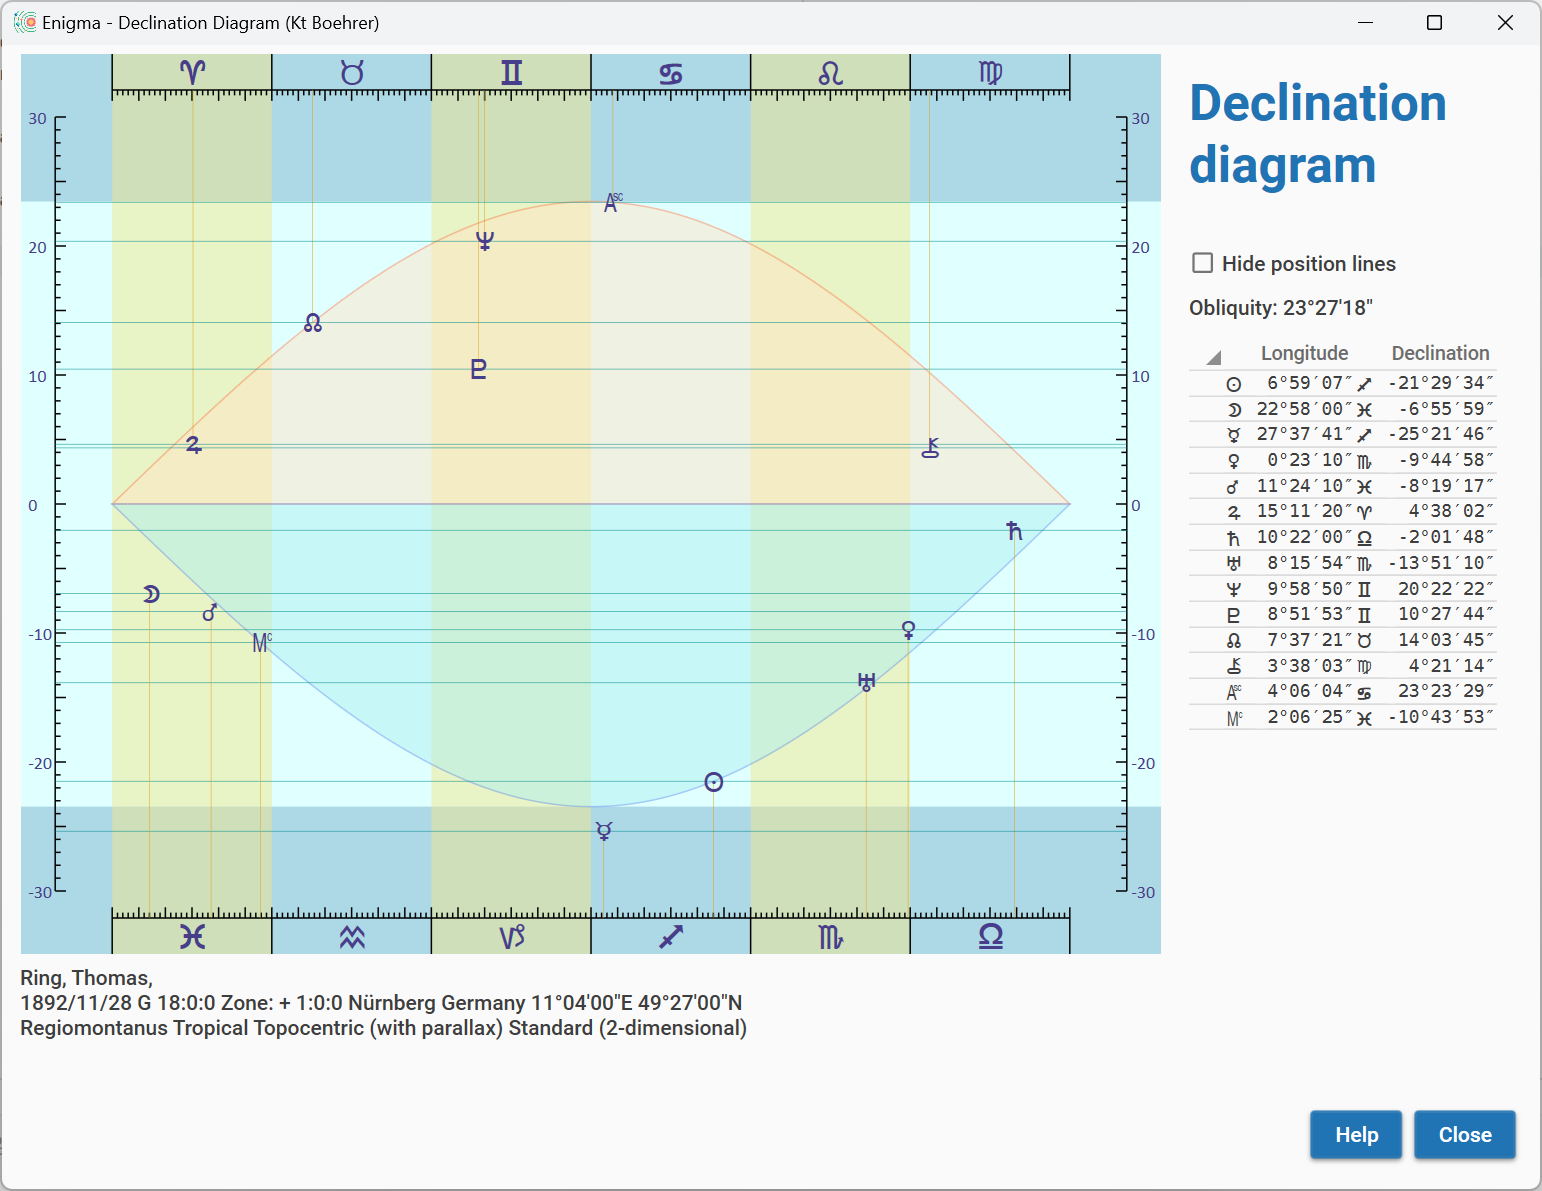
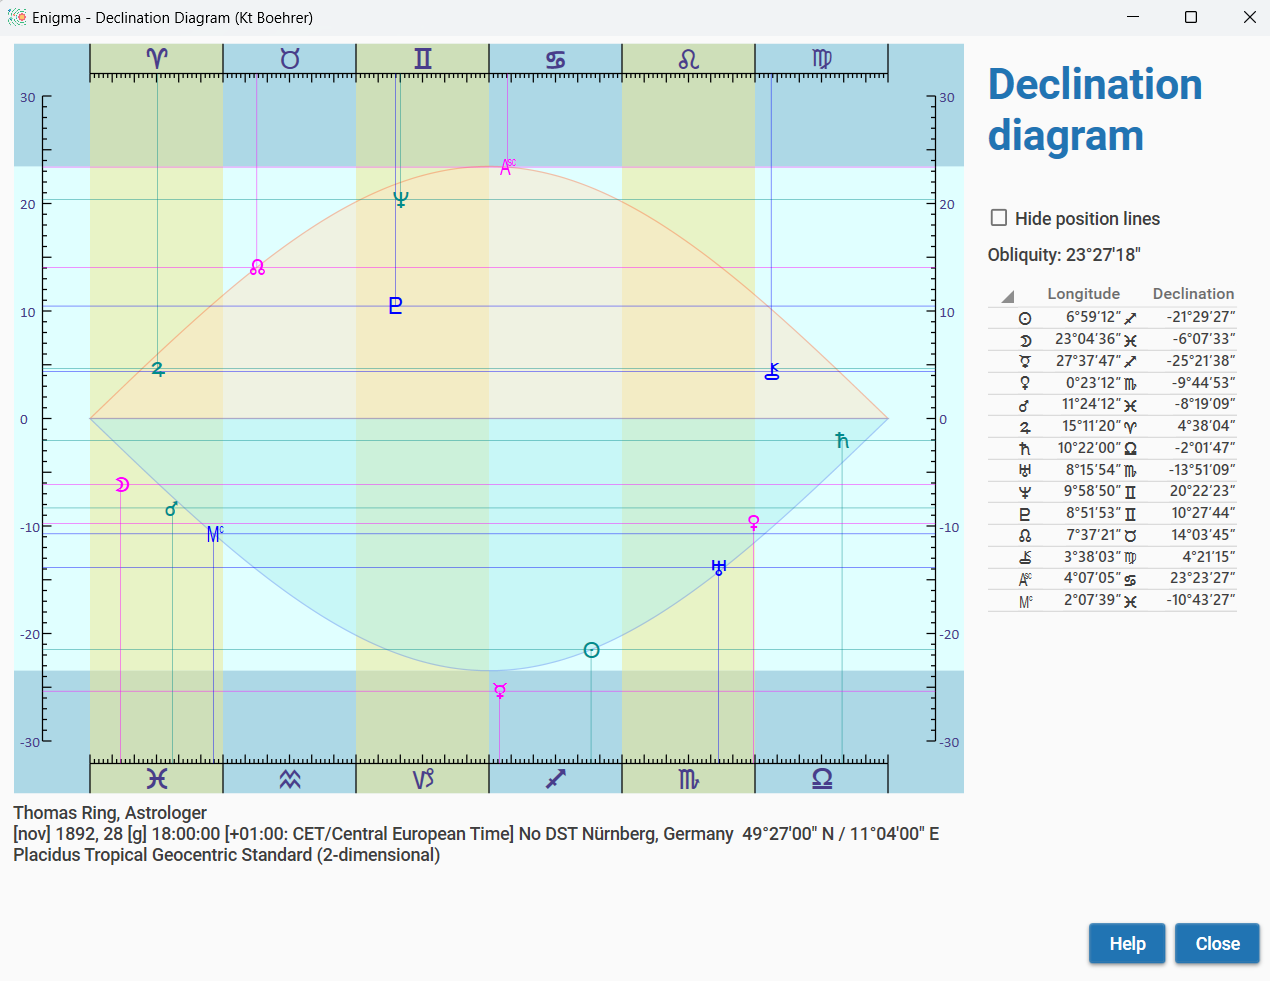
Updated parts of the user manual. Fixed directions for southern latitudes.

diff --git a/Enigma/Enigma.Frontend/res/help/DeclDiagram-en.html b/Enigma/Enigma.Frontend/res/help/DeclDiagram-en.html
@@ -22,6 +22,7 @@
     The diagram shows 6 columns, each for a pair of ecliptical signs. 
     For each point you will see a horizontal line that indicates the exact declination.
     A vertical line, directed to the top or the bottom of the diagram, indicates the longitude.
+    The colors of the line correspond with the colors of the glyphs for the planets.
 </p>
 <p>
     You can hide the position lines by clicking the checkbox <i>Hide position lines</i>.

diff --git a/Enigma/Enigma.Core/Charts/Prog/PrimDir/PrimDirCalcAssist.cs b/Enigma/Enigma.Core/Charts/Prog/PrimDir/PrimDirCalcAssist.cs
@@ -58,18 +58,34 @@ public static class PrimDirCalcAssist
     /// <param name="oaPoint">Oblique ascension for the point.</param>
     /// <param name="oaAsc">Oblique ascension for the ascendant.</param>
     /// <param name="chartLeft">True if point is in the left demi-circle of the chart, otherwise false.</param>
+    /// <param name="north">True for northern latitude.</param>
     /// <returns>Calculated value for horizontal distance.</returns>
-    public static double HorizontalDistance(double oaPoint, double oaAsc, bool chartLeft)
+    public static double HorizontalDistance(double oaPoint, double oaAsc, bool chartLeft, bool north)
     {
         double hd = 0.0;
-        if (chartLeft)
+        if (north)
         {
-            hd = Math.Abs(oaPoint - oaAsc);
+            if (chartLeft)
+            {
+                hd = Math.Abs(oaPoint - oaAsc);
+            }
+            else
+            {
+                hd = Math.Abs(RangeUtil.ValueToRange(oaPoint + 180.0, 0.0, 180.0) 
+                              - RangeUtil.ValueToRange(oaAsc + 180.0, 0.0, 180.0));            
+            }            
         }
         else
         {
-            hd = Math.Abs(RangeUtil.ValueToRange(oaPoint + 180.0, 0.0, 180.0) 
-                            - RangeUtil.ValueToRange(oaAsc + 180.0, 0.0, 180.0));            
+            if (!chartLeft)
+            {
+                hd = Math.Abs(oaPoint - oaAsc);
+            }
+            else
+            {
+                hd = Math.Abs(RangeUtil.ValueToRange(oaPoint + 180.0, 0.0, 180.0) 
+                              - RangeUtil.ValueToRange(oaAsc + 180.0, 0.0, 180.0));            
+            } 
         }
         if (hd >= 180.0) hd = 360.0 - hd;
         if (hd >= 90.0) hd = 180.0 - hd;
@@ -92,18 +108,25 @@ public static class PrimDirCalcAssist
     /// <param name="raPoint">Right ascention of point.</param>
     /// <param name="ascDiff">Ascension difference of point.</param>
     /// <param name="chartLeft">Indicates if point is in the left part of the chart.</param>
-    /// <param name="north">Indficates if point is in northern hemisphere.</param>
+    /// <param name="north">Indicates if point is in northern hemisphere.</param>
     /// <returns>Calculated oblique ascension.</returns>
     public static double ObliqueAscDesc(double raPoint, double ascDiff, bool chartLeft, bool north)
     {
-        if ((north && chartLeft) || (!north && !chartLeft))
+        double oa = 0.0;
+        if (north)
         {
-            return RangeUtil.ValueToRange(raPoint - ascDiff, 0.0, 360.0);
-        } 
-        return RangeUtil.ValueToRange(raPoint + ascDiff, 0.0, 360.0);
-        
+            if (chartLeft) oa = raPoint - ascDiff;
+            else  oa = raPoint + ascDiff;           
+        }
+        else
+        {
+            if (chartLeft) oa = raPoint + ascDiff;
+            else oa = raPoint - ascDiff;            
+        }
+        return RangeUtil.ValueToRange(oa, 0.0, 360.0); 
     }
    
+
     
     /// <summary>Calculates the elevation undere the pole for directions using the method Placidus under the pole.</summary>
     /// <param name="adPole">Ascensional difference under the pole.</param>
@@ -165,19 +188,12 @@ public static class PrimDirCalcAssist
         return MathExtra.RadToDeg(Math.Asin(tanDecl * tanPole));
     }
 
-    public static double TopocPole(double merDist, double semiArc, double decl, double geoLat)
-    {
-        double mdDivSa = merDist / semiArc;
-        double geoLatRad = MathExtra.DegToRad(geoLat);
-        double declRad = MathExtra.DegToRad(decl);
-        return MathExtra.RadToDeg(Math.Atan((mdDivSa * Math.Tan(geoLatRad) / Math.Tan(declRad))));
-    }
 
-    public static double TopocPoleMakransky(double merDist, double semiArc, double geoLat)
+    public static double TopocPole(double merDist, double semiArc, double geoLat)
     {
         double mdDivSa = merDist / semiArc;
         double geoLatRad = MathExtra.DegToRad(geoLat);
-        return MathExtra.RadToDeg(Math.Atan(mdDivSa * Math.Tan(geoLatRad)));
+        return Math.Abs(MathExtra.RadToDeg(Math.Atan(mdDivSa * Math.Tan(geoLatRad))));
     }
     
     public static double DeclFromLongNoLat(double longitude, double obliquity)

diff --git a/Enigma/Enigma.Core/Charts/Prog/PrimDir/SpeculumPoint.cs b/Enigma/Enigma.Core/Charts/Prog/PrimDir/SpeculumPoint.cs
@@ -99,48 +99,12 @@ public class SpeculumPointPlac : ISpeculumPoint
         IsTop = PointBase.ChartTop;
         Ad = PrimDirCalcAssist.AscensionalDifference(PointBase.Decl, geoLat);
         Oad = PrimDirCalcAssist.ObliqueAscDesc(PointBase.Ra, Ad, ChartLeft, geoLat >= 0.0);
-        HorDist = PrimDirCalcAssist.HorizontalDistance(Oad, specBase.OaAsc, ChartLeft);
+        HorDist = PrimDirCalcAssist.HorizontalDistance(Oad, specBase.OaAsc, ChartLeft, geoLat >= 0.0);
         MerDist = PrimDirCalcAssist.MeridianDistance(PointBase.Ra, specBase.RaMc, specBase.RaIc, IsTop);
         SemiArc = Math.Abs(HorDist + MerDist);
+        if (geoLat < 0.0) SemiArc = 180.0 - SemiArc;
     }
 }
-
-/// <summary>A specific point to be used in Placidus under the Pole directions.</summary>
-public class SpeculumPointPlacPole : ISpeculumPoint
-{
-    public SpeculumPointBase PointBase { get; private set; }
-
-    public double AdPlacPole { get; private set; }
-    public double ElevPole { get; private set; }
-
-
-    public SpeculumPointPlacPole(ChartPoints point, FullPointPos pointPos, PrimDirRequest request,
-        SpeculumBase specBase, AspectTypes aspect)
-    {
-        PointBase = new SpeculumPointBase(point, pointPos, request, specBase, aspect);
-        double lon = pointPos.Ecliptical.MainPosSpeed.Position;
-        double decl = pointPos.Equatorial.DeviationPosSpeed.Position;
-        double ra = pointPos.Equatorial.MainPosSpeed.Position;
-
-        double geoLat = request.Chart.InputtedChartData.Location.GeoLat;
-        bool chartLeft = request.Approach == PrimDirApproaches.Mundane
-            ? PrimDirCalcAssist.IsChartLeft(ra, specBase.RaMc)
-            : PrimDirCalcAssist.IsChartLeft(lon, specBase.LonMc);
-        bool isTop = request.Approach == PrimDirApproaches.Mundane
-            ? PrimDirCalcAssist.IsChartTop(ra, specBase.RaAsc)
-            : PrimDirCalcAssist.IsChartTop(lon, specBase.LonAsc);
-        double ad = PrimDirCalcAssist.AscensionalDifference(decl, geoLat);
-        double oad = PrimDirCalcAssist.ObliqueAscDesc(ra, ad, chartLeft, geoLat >= 0.0);
-        double horDist = Math.Abs(PrimDirCalcAssist.HorizontalDistance(oad, specBase.OaAsc, chartLeft));
-
-        double merDist = PrimDirCalcAssist.MeridianDistance(ra, specBase.RaMc, specBase.RaIc, isTop);
-        double semiArc = Math.Abs(horDist) + Math.Abs(merDist);
-
-        AdPlacPole = (merDist / semiArc) * ad;  // todo reverse signs for oadUnderPole in southern hemisphere
-        ElevPole = PrimDirCalcAssist.ElevationOfThePolePlac(AdPlacPole, decl);
-    }
-}
-
 
 
 /// <summary>A specific point to be used in Regiomontanus directions.</summary>
@@ -196,10 +160,10 @@ public class SpeculumPointTopoc : ISpeculumPoint
         
         double ad = PrimDirCalcAssist.AscensionalDifference(decl, geoLat);
         double oad = PrimDirCalcAssist.ObliqueAscDesc(pointPos.Equatorial.MainPosSpeed.Position, ad, chartLeft, geoLat >= 0.0);        
-        double horDist = Math.Abs(PrimDirCalcAssist.HorizontalDistance(oad, specBase.OaAsc, chartLeft));        
+        double horDist = Math.Abs(PrimDirCalcAssist.HorizontalDistance(oad, specBase.OaAsc, chartLeft, geoLat >= 0.0));        
         double merDist = PrimDirCalcAssist.MeridianDistance(PointBase.Ra, specBase.RaMc, specBase.RaIc, isTop);
         double semiArc = Math.Abs(horDist) + Math.Abs(merDist);
-        PoleTc = PrimDirCalcAssist.TopocPoleMakransky(merDist, semiArc, geoLat);
+        PoleTc = PrimDirCalcAssist.TopocPole(merDist, semiArc, geoLat);
         double declRad = MathExtra.DegToRad(decl);
         double poleRad = MathExtra.DegToRad(PoleTc);
         FactorQ = MathExtra.RadToDeg(Math.Tan(declRad) * Math.Tan(poleRad));

diff --git a/Enigma/Enigma.Test/Core/Charts/PrimDir/TestPrimDirCalcAssist.cs b/Enigma/Enigma.Test/Core/Charts/PrimDir/TestPrimDirCalcAssist.cs
@@ -166,7 +166,7 @@ public class TestPrimDirCalcAssist
         const double oaPoint = 288.0;
         const double oaAsc = 247.0;
         const double expected = 41.0;
-        double actual = PrimDirCalcAssist.HorizontalDistance(oaPoint, oaAsc, easternHemiSphere);
+        double actual = PrimDirCalcAssist.HorizontalDistance(oaPoint, oaAsc, easternHemiSphere, false);
         Assert.That(actual, Is.EqualTo(expected).Within(DELTA));
     }
     
@@ -264,7 +264,7 @@ public class TestPrimDirCalcAssist
     }
 
 
-    [Test]
+    /*[Test]
     public void TestTopocPole()
     {
         const double merDist = 30.0;
@@ -272,9 +272,9 @@ public class TestPrimDirCalcAssist
         const double decl = 10.0;
         const double geoLat = 50.0;
         const double expected = 51.7230940347;
-        double actual = PrimDirCalcAssist.TopocPole(merDist, semiArc, decl, geoLat);
+        double actual = PrimDirCalcAssist.TopocPole(merDist, semiArc, decl);
         Assert.That(actual, Is.EqualTo(expected).Within(DELTA));
-    }
+    }*/
 
     
     [Test]

diff --git a/Enigma/Enigma.Test/Domain/Charts/Prog/PrimDir/TestPrimDirMethods.cs b/Enigma/Enigma.Test/Domain/Charts/Prog/PrimDir/TestPrimDirMethods.cs
@@ -58,7 +58,7 @@ public class TestPrimDirMethods
         {
             Assert.That(allDetails, Has.Count.EqualTo(3));
             Assert.That(allDetails[0].RbKey, Is.EqualTo("ref.primdirmethod.placidus"));
-            Assert.That(allDetails[2].RbKey, Is.EqualTo("ref.primdirmethod.topocentric"));
+            Assert.That(allDetails[1].RbKey, Is.EqualTo("ref.primdirmethod.regiomontanus"));
         });
     }
     

diff --git a/Enigma/Enigma.Core/Charts/Prog/PrimDir/SpeculumBase.cs b/Enigma/Enigma.Core/Charts/Prog/PrimDir/SpeculumBase.cs
@@ -39,6 +39,7 @@ public class SpeculumBase
         RaAsc = chart.Positions[ChartPoints.Ascendant].Equatorial.MainPosSpeed.Position;
         LonAsc = chart.Positions[ChartPoints.Ascendant].Ecliptical.MainPosSpeed.Position;
         OaAsc =  RaMc + 90.0;
+     //   if (GeoLat < 0.0) OaAsc = RaIc + 90.0;
         if (OaAsc >= 360.0) OaAsc -= 360.0;
         OblEcl = chart.Obliquity;
     }

diff --git a/Enigma/docs/md/User-Manual/Charts.md b/Enigma/docs/md/User-Manual/Charts.md
@@ -124,6 +124,8 @@ Select the chart in the left column and click the button **Wheel**, or use the m
 You will see the figure of the chart and the basic information about the chart. Resize the window and the chart will automatically adjust. You do not need to close the window with the wheel to continue. 
 It is possible to open wheels for different charts simultaneously. You can also have one or more windows for wheels open and at the same windows for analysis. You will recognize the chart owner as Enigma shows its name in each window.
 
+At the bottom left is a check-box labeled 'No time'. If you check this, Enigma draws a new wheel without houses and angles. Also, 0 Aries is positioned to the left. You can use this is a birth time is unknown. Please note that Enigma does not change the time so planetary positions do not change. 
+
 
 
 ## Showing the positions of a chart
@@ -211,6 +213,8 @@ You can sort the columns in the table *Occupied Midpoints* by clicking on the he
 <img src="img\decl-diagram.png" alt="decl-diagram" style="zoom:50%;" />
 
 The declination diagram shows an overview of declinations and longitudes.  At the left and the right, the diagram shows the degrees in declination. In most cases the range will be from 30 to -30 (30 North to 30 South). If one of the points has a declination larger than 30 degrees, Enigma will extend that range. The zones at the bottom and the top, indicated by a darker color, indicate where a planet will be Out of Bounds. The outline of the oval form shows the typical declination of the Sun, and other points without latitude.  
+
+The colors of the position lines are the same as the colors used for the symbols. This makes it possible to see the difference if planets are very close in longitude or declination.
 
 Enigma shows the zodiac signs using vertical bars. Horizontal (declination) and vertical (longitude) mark the exact location of the points in the graph.  You can hide the position lines by clicking the checkbox *Hide position lines*.
 

diff --git a/Enigma/docs/md/User-Manual/General.md b/Enigma/docs/md/User-Manual/General.md
@@ -7,18 +7,18 @@
 Thank you for your interest in Enigma. 
 You are about to learn about a program that calculates charts and also supports several types of research into astrology.
 
-You can use it for your astrological calculations. Enigma is accurate and calculates fast, it will produce a chart wheel and perform the most important analysis.
+You can use it for your astrological calculations. Enigma is accurate and calculates fast, it will produce a chart wheel, perform the most important analysis and supports several progressive techniques.
 
 The program also supports several types of research: counting aspects, occupied midpoints, declinations and more. 
 And it generates control groups so that you can cancel out artefacts.
-
-Several other releases will follow, and each new release will add more functionality.
 
 Enigma is free: you do not have to pay for it. 
 And Enigma is open source: I published all code, and anybody can download it. 
 Programmers that want to use my code can do so freely, but only if their own software is also open source.
 
-I hope you enjoy the program!
+The next release of Enigma will be very different. I want to support multiple platforms; not just Windows but also Linux, Mac, Android and iOs. This requires using other programming languages and a lot of effort for the conversion. This will take considerable time. 
+
+In the mean time, I hope you enjoy the current version of Enigma!
 
 Jan Kampherbeek.
 

diff --git a/Enigma/docs/md/User-Manual/Appendix.md b/Enigma/docs/md/User-Manual/Appendix.md
@@ -203,6 +203,22 @@ If you perform a test with harmonics or with midpoints, you can enter the orb th
 
 In other research projects, you use the orbs as defined in the configuration.
 
+
+
+## Time keys for primary directions
+
+Enigma supports the following time keys for primary directions:
+
+- Ptolemy: 1 degree in right ascension per year.
+- Naibod: the mean movement of the Sun in right ascension during a day: 0°59'08".
+- Brahe: the movement of the Sun at the day of birth.
+- Placidus: the total movement of the Sun in secundary directions, measured in right ascension.
+- Van Dam: as Placidus, but measured in longitude.
+
+
+
+
+
 ## Format for data-files
 
 Enigma supports a proprietary data-file and also the import of data from PlanetDance. 
